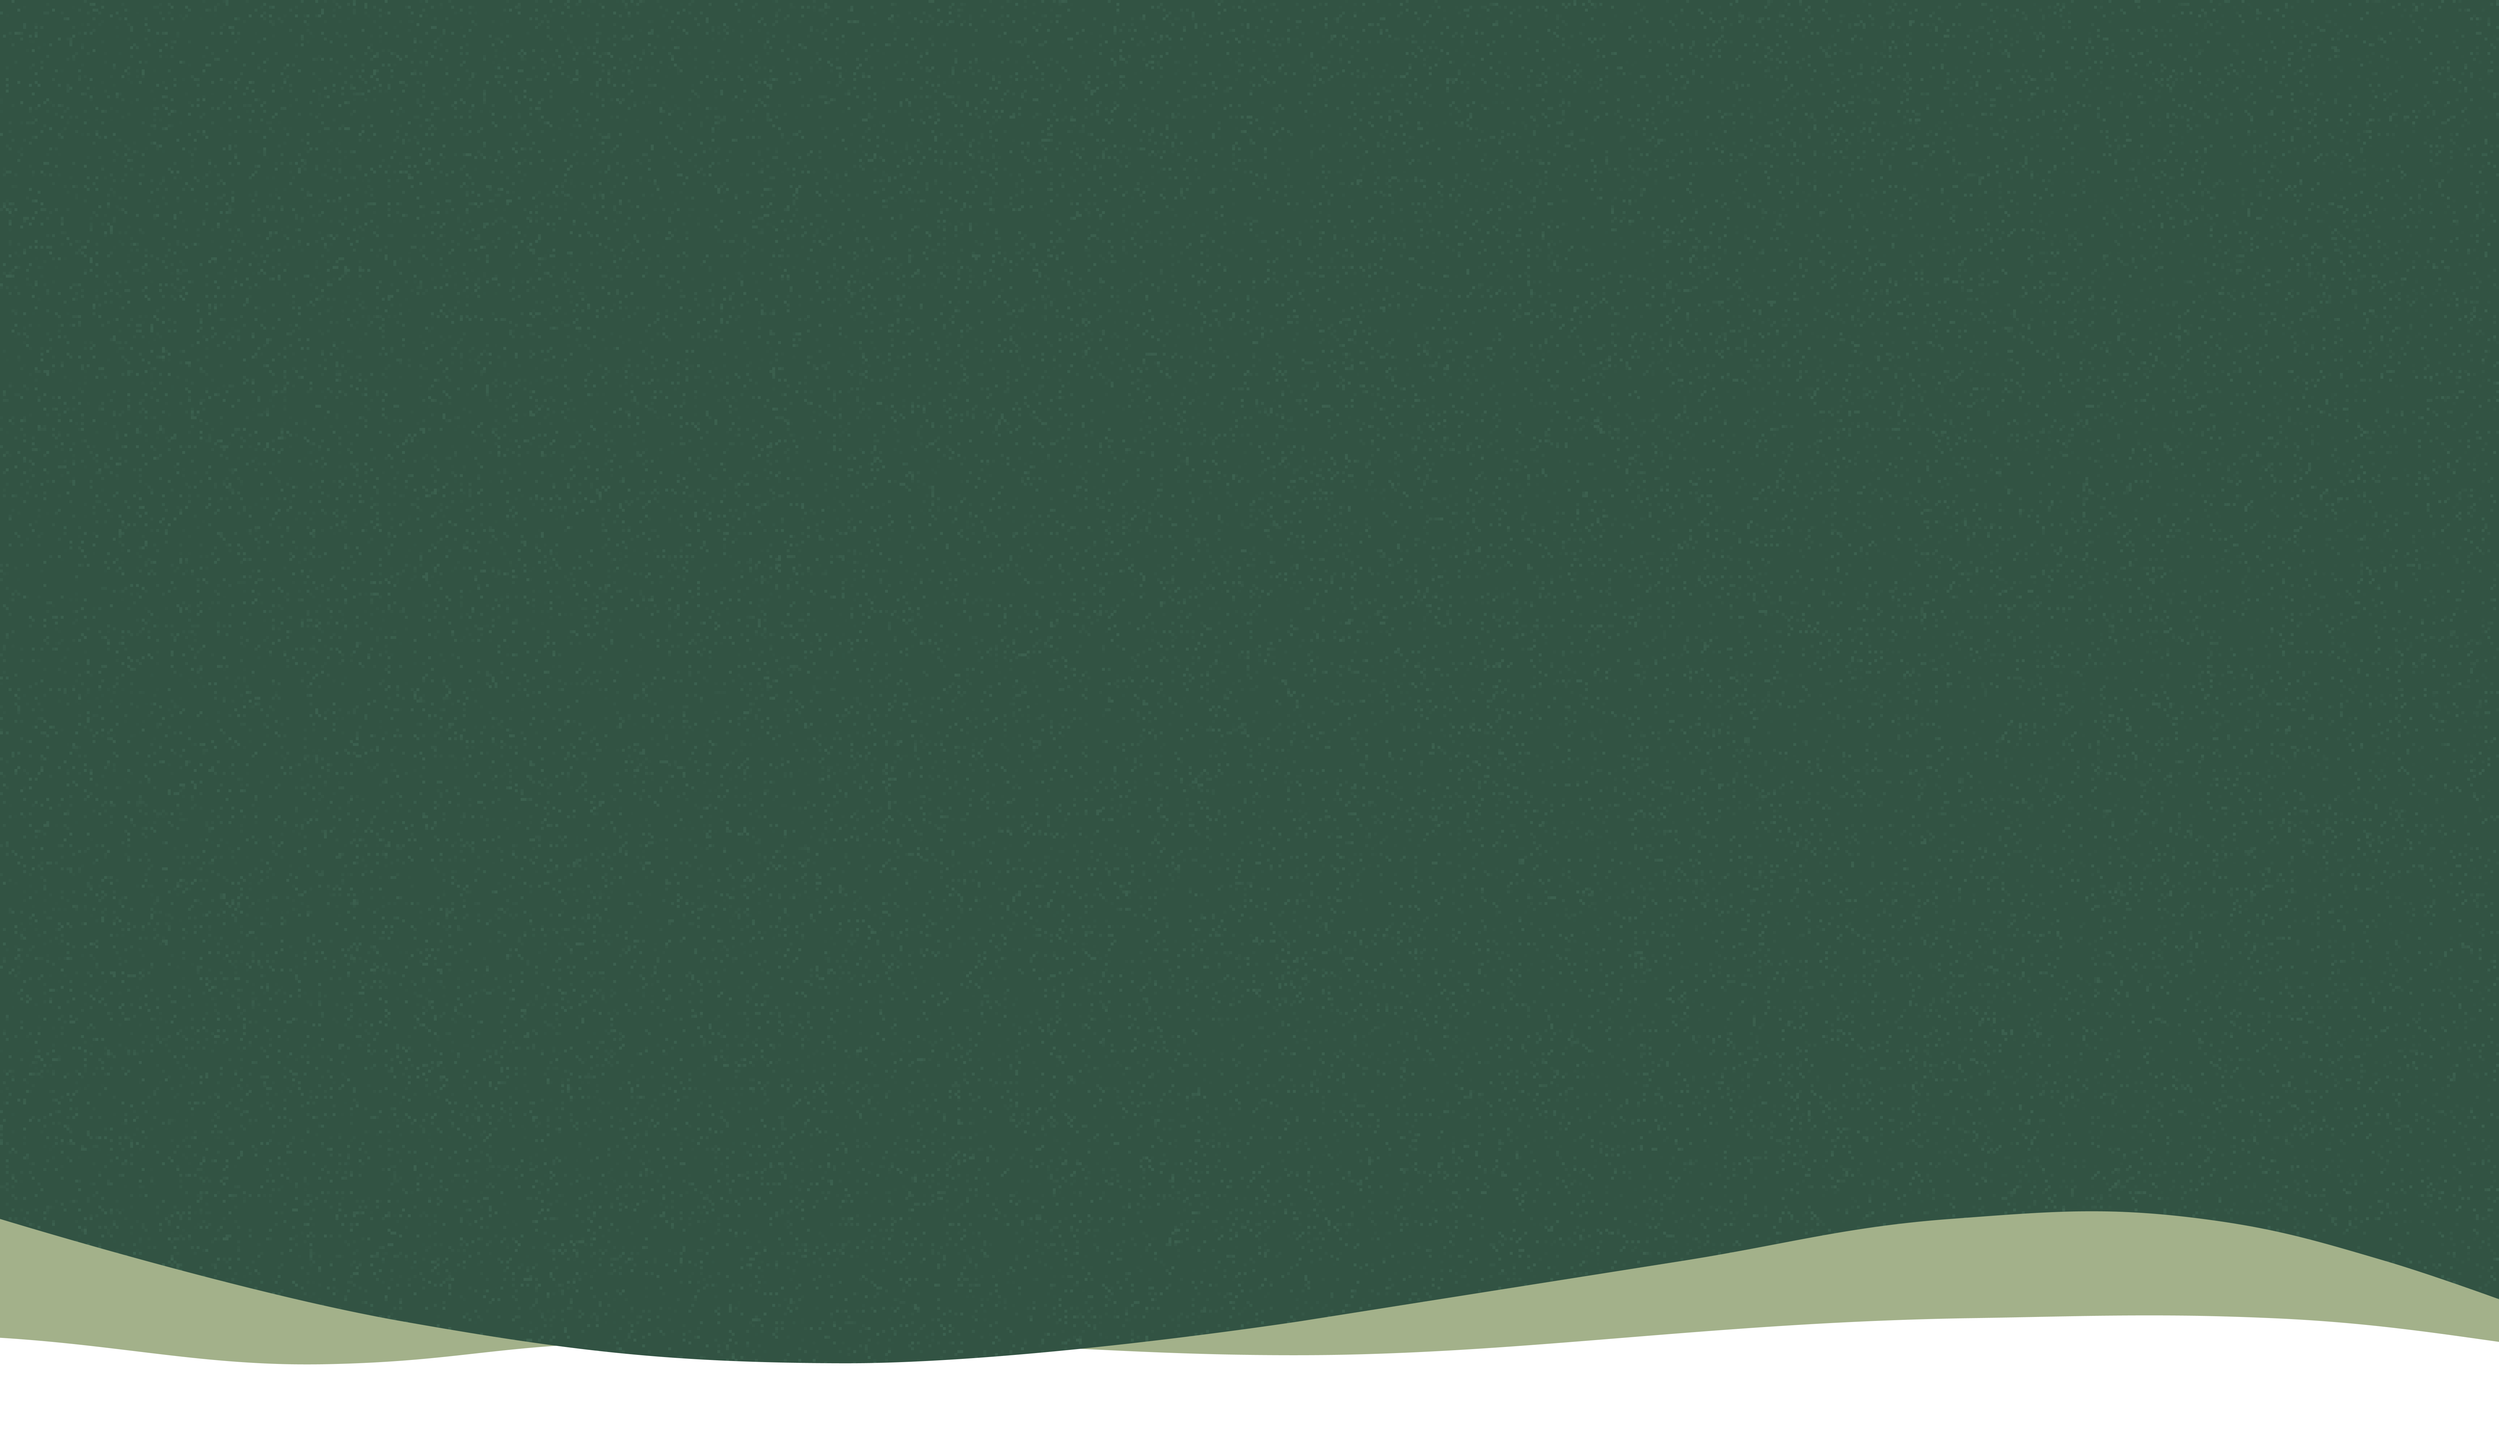
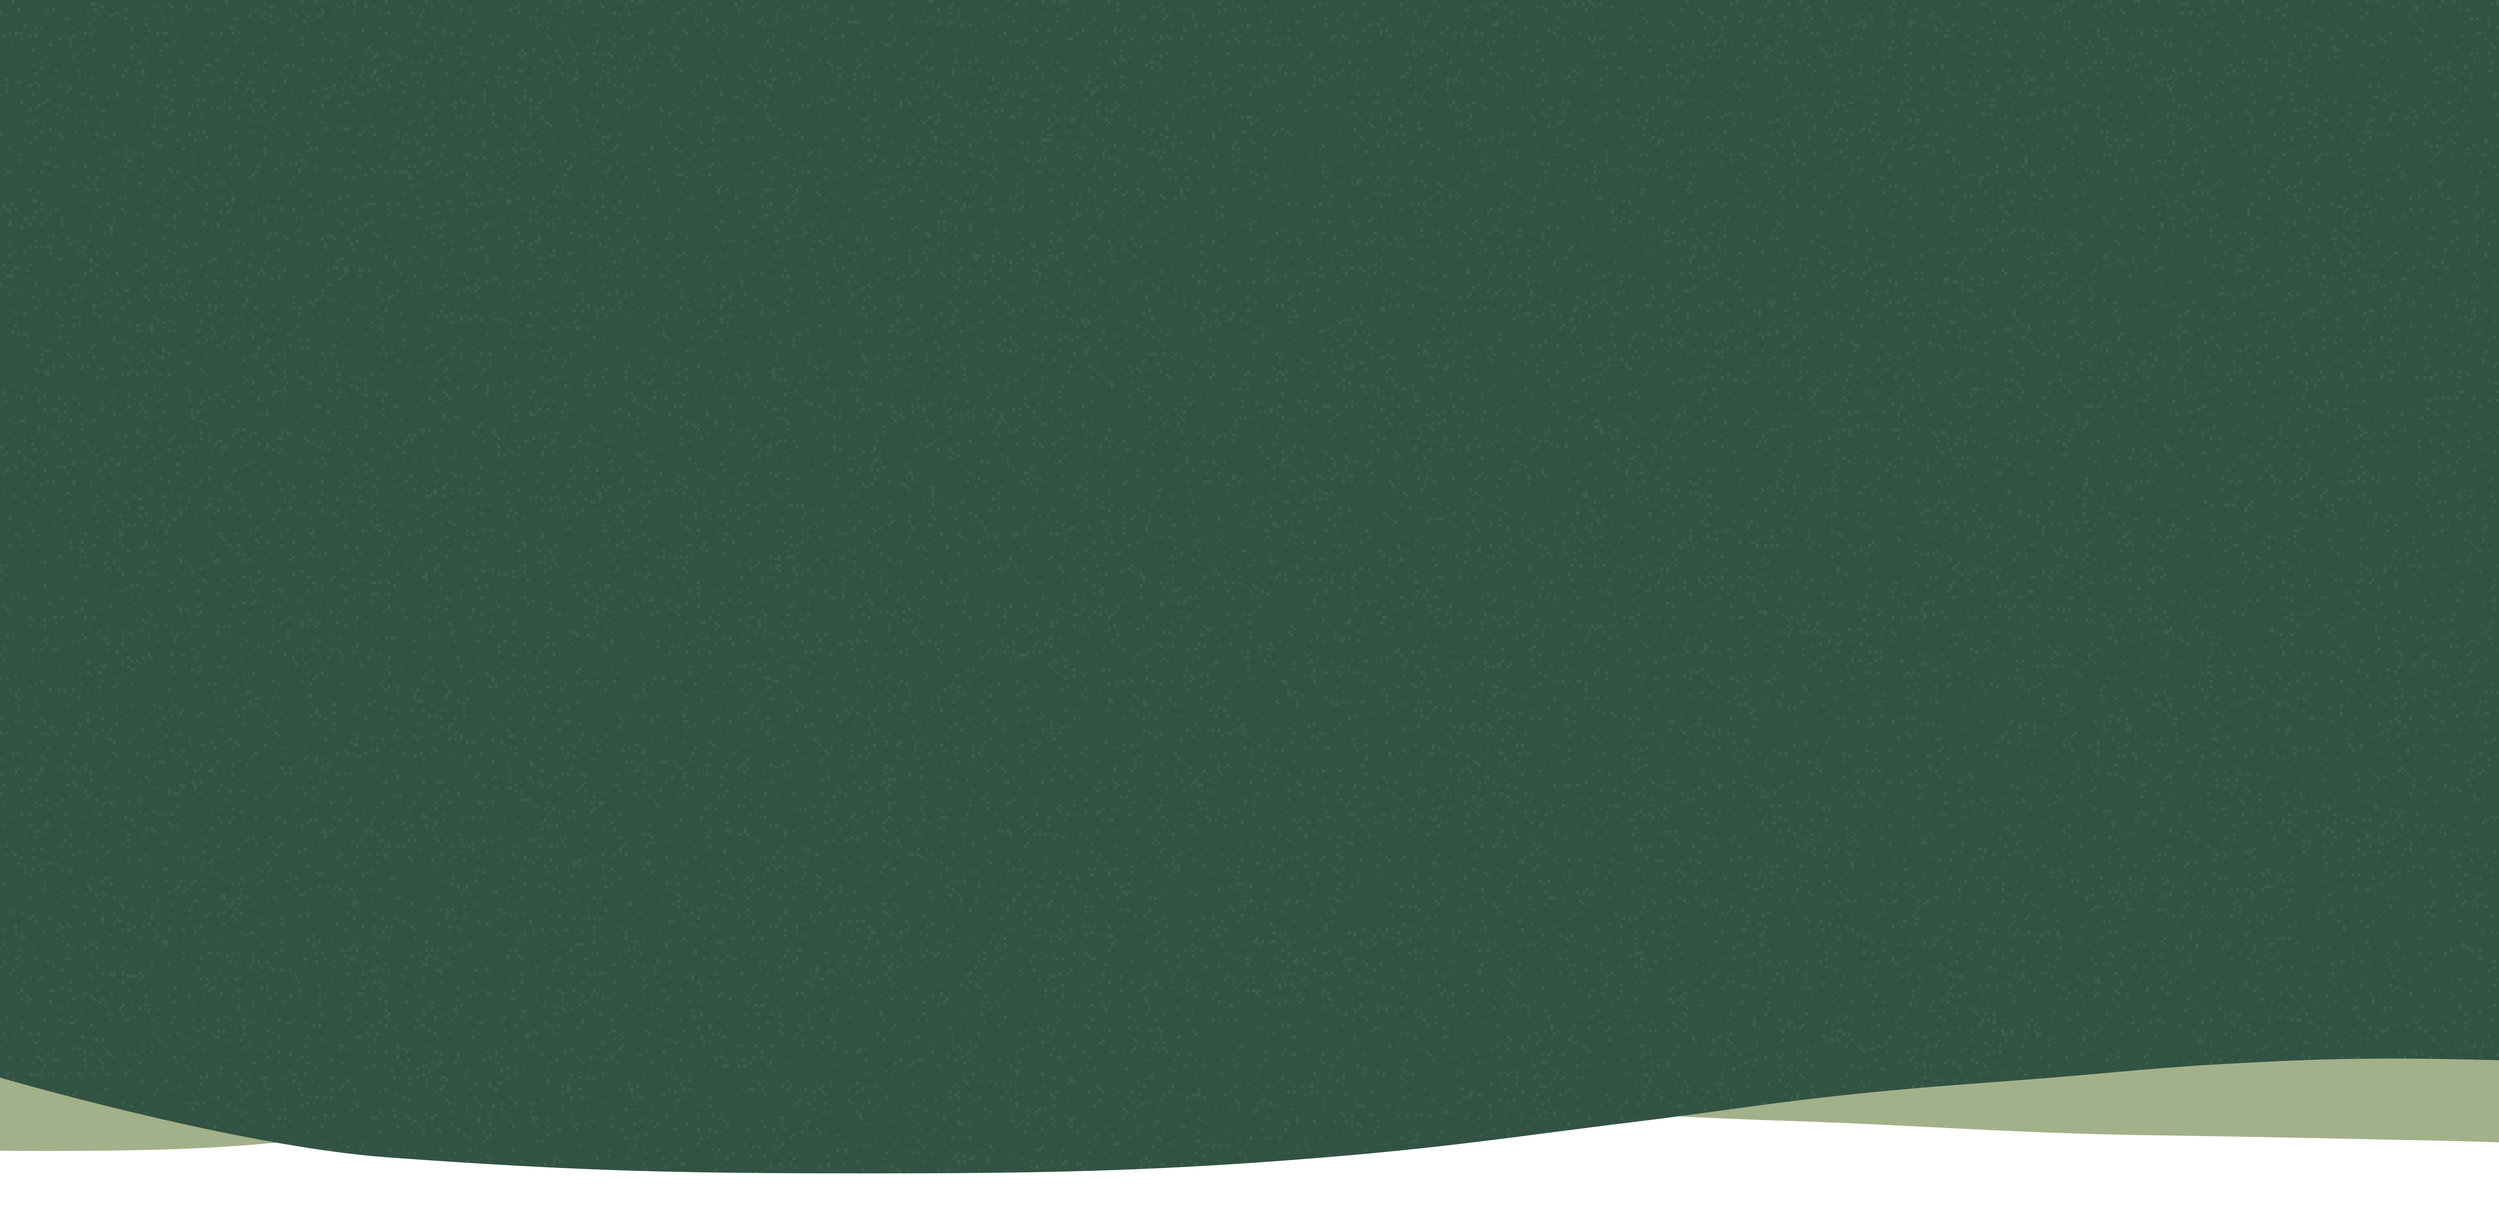
commit 7

Changed region(s): [[0.0, 0.8067, 1.0, 0.9928]]

diff --git a/my-app/src/Counter/Counter.css b/my-app/src/Counter/Counter.css
@@ -1,3 +1,5 @@
+@import url('https://fonts.googleapis.com/css2?family=Poppins:wght@400;500;600&display=swap');
+
 * {
   margin: 0;
   padding: 0;
@@ -7,7 +9,7 @@
 body {
   width: 100vw;
 }
-.counter-first {
+.counter-main {
   width: 100vw;
   height: 50vw;
   margin-left: auto;
@@ -15,85 +17,43 @@ body {
   padding-left: 100px;
   padding-right: 15px;
   display: flex;
-  justify-content: center;
-  align-items: center;
-}
-span {
-  color: #397a4a;
-  box-sizing: border-box;
-  font-size: larger;
-}
-.Info-container {
-  width: 50vw;
-  font-family: "Poppins", sans-serif;
-  font-size: 3.5vw;
-  font-weight: 400;
-  color: black;
-  padding: 2em 0 0 5rem;
-  position: block;
-}
-.Count-container {
-  width: 40vw;
-  margin: 5vw 0 0 3vw;
-  display: flex;
-  flex-direction: column;
-  justify-content: center;
-  position: relative;
-  font-size: 2vw;
-  font-weight: 400;
-  line-height: 1.5; /* Adjust this value for the desired line spacing */
-  border-spacing: 10px;
-}
-.Count-container hr {
-  border: 1px solid black;
-  width: 90%;
-  margin: 20px 0;
-}
-
-.Counter {
-  color: #397a4a;
-  font-size: larger;
-}
-
-.second-heading {
-  font-size: 3rem;
-  line-height: 3rem;
-}
-.counter-second {
-  width: 100vw;
-  height: auto;
-  display: flex;
   justify-content: space-evenly;
   align-items: center;
-  margin-top: 17vw;
 }
-.counter-second-para {
-  width: 35vw;
+.info-container {
+  width: 40vw;
+  font-weight: 500;
+  color: black;
+  margin-left: 5vw;
+}
+.info-container h2 {
+  font-size: 5vw;
+  font-weight: 400;
+}
+.info-container span {
+  color: #588157;
+  font-size: 4.8vw;
+  font-weight: 500;
+}
+.count-container {
+  width: 40vw;
   display: flex;
   flex-direction: column;
+  justify-content: center;
+  line-height: 3.5vw;
+  margin-top: 1vw;
 }
-.counter-second-para h2 {
-  font-family: 'Poppins', sans-serif;
+.count-container hr {
+  border: 1px solid black;
+  margin: 1.5vw 0;
+  width: 90%;
+}
+.count-container h2 {
   font-size: 4vw;
+  color: #606060;
+  font-weight: 500;
 }
-.counter-second-para p {
-  font-size: 1.5vw;
-  font-family: 'Poppins', sans-serif;
-}
-.para button {
-  height: 56px;
-  min-width: 160px;
-  border-width: 1px;
-  padding: 15px 36px;
-  font-size: 20px;
-  line-height: 26px;
-  border-radius: 7.25rem;
-  background-color: #397a4a;
-  color: white;
-}
-.collage img {
-  width: 35vw;
-}
-.para button:hover {
-  cursor: pointer;
+.count-container p {
+  font-size: 2vw;
+  color: #588157;
 }

diff --git a/my-app/src/Counter/Counter.jsx b/my-app/src/Counter/Counter.jsx
@@ -1,60 +1,32 @@
 import React from "react";
 import "./Counter.css";
-import collage from "../images/Collage.png";
 
 export default function Counter() {
   return (
-    <div className="main">
-      <div className="counter-first">
-        <div className="Info-container">
-          <h2>The world's largest therapy service.</h2>
-          <span>100% online!</span>
-        </div>
+    <div className="counter-main">
 
-        <div className="Count-container">
-          <div>
-            <div>350,467</div>
-            <div>Message, chat,phone,video sessions</div>
-          </div>
-          <hr />
-          <div>
-            <div>298,111</div>
-            <div>Credentialled therapists ready to help</div>
-          </div>
-          <hr />
-          <div>
-            <div>1205</div>
-            <div>People got help!</div>
-          </div>
-        </div>
-
-        <hr id="seperate" />
+      <div className="info-container">
+        <h2>The World's Largest therapy service.</h2>
+        <span>100% online!</span>
       </div>
 
-      <div className="counter-second">
-        <div className="counter-second-para">
-          <h2>
-            Professional and credentialled therapists who you can {" "}
-            <span>trust.</span>
-          </h2>
-          <br />
-          <p>
-            Tap into the world's largest network of credentialled and
-            experienced therapists who can help you with a range of issues
-            including depression, anxiety, relationships, trauma, grief, and
-            more. With our therapists, you get the same professionalism and
-            quality you would expect from an in-office therapist, but with the
-            ability to communicate when and how you want.
-          </p>
-          <br />
-          <button>Get Matched!</button>
+      <div className="count-container">
+        <div>
+          <h2>350,467</h2>
+          <p>Message, chat, phone, video sessions</p>
         </div>
-
-        <div className="collage">
-          <img src={collage} alt="" />
-          <br />
+        <hr />
+        <div>
+          <h2>298,111</h2>
+          <p>Credentialled therapists ready to help</p>
+        </div>
+        <hr />
+        <div>
+          <h2>1205</h2>
+          <p>People got help!</p>
         </div>
       </div>
+
     </div>
   );
 }

diff --git a/my-app/src/Therapists/Therapists.jsx b/my-app/src/Therapists/Therapists.jsx
@@ -1,0 +1,28 @@
+import React from "react";
+import "./Therapists.css";
+import th_img from "../images/therapy-img.png";
+
+export default function Therapists() {
+  return (
+    <>
+      <div className="therapists-main">
+        <img className="therapists-img" src={th_img} alt="" />
+
+        <div className="therapists-info">
+          <h2>
+            Professional and Credentialled therapists who you can{" "}
+            <span>trust.</span>
+          </h2>
+          <p>
+            Tap into the world's largest network of credentialled and
+            experienced therapists who can help you with a range of issues
+            including depression, anxiety, relationships, trauma, grief, and
+            more. With our therapists, you get the same professionalism and
+            quality you would expect from an in-office therapist, but with the
+            ability to communicate when and how you want.
+          </p>
+        </div>
+      </div>
+    </>
+  );
+}

diff --git a/my-app/src/Therapists/Therapists.css b/my-app/src/Therapists/Therapists.css
@@ -1,0 +1,37 @@
+.therapists-main {
+    background-image: url("../images/therapists-bg.png");
+    background-size: cover;
+    background-repeat: no-repeat;
+    width: 100vw;
+    height: 65vw;
+    display: flex;
+    justify-content: center;
+    align-items: center;
+    gap: 6vw;
+    padding: 1vw 0 0 0;
+}
+
+.therapists-img {
+    height: 53vw;
+    width: auto;
+    margin-left: 2vw;
+}
+
+.therapists-info {
+    width: 37vw;
+    font-family: 'Poppins', sans-serif;
+    margin: 3vw 0 0 2vw;
+}
+.therapists-info h2 {
+    font-size: 3.3vw;
+    font-weight: 400;
+    color: #C7925F;
+    line-height: 4.3vw;
+}
+.therapists-info p {
+    font-size: 1.2vw;
+    font-weight: 400;
+    color: #343434;
+    margin-top: 2.5vw;
+    width: 30vw;
+}

diff --git a/my-app/src/about/about.css b/my-app/src/about/about.css
@@ -1,0 +1,30 @@
+.about-main {
+    background-image: url("../images/about-bg.png");
+    background-size: cover;
+    background-repeat: no-repeat;
+    width: 100vw;
+    height: 59.5vw;
+    transform: translateY(-4vw);
+}
+
+.about-first {
+    padding-top: 9vw;
+    display: flex;
+    align-items: center;
+    width: 100vw;
+    height: 10vw;
+}
+.about-first h1 {
+    font-family: 'Poppins', sans-serif;
+    font-size: 3vw;
+    color: #FAEDCD;
+    font-weight: 400;
+}
+.about-first hr {
+    width: 23vw;
+    margin: 0 1.5vw;
+    border: 1px solid #FAEDCD;
+}
+hr:nth-of-type(2n) {
+    width: 50vw;
+}

diff --git a/my-app/src/App.js b/my-app/src/App.js
@@ -2,7 +2,7 @@ import './App.css';
 import Home from './Home/Home.jsx';
 import Nav from './Nav/Nav.jsx';
 import Counter from './Counter/Counter.jsx';
-import FeatureComp from './FeatureComp/featurecomp.jsx';
+
 function App() {
   return (
     <div className="App">
@@ -10,7 +10,6 @@ function App() {
       
       <Home />
       <Counter/>
-      <FeatureComp/>
     </div>
   );
 }

diff --git a/my-app/src/about/About.jsx b/my-app/src/about/About.jsx
@@ -1,0 +1,16 @@
+import React from 'react'
+import "./about.css"
+
+export default function About() {
+  return (
+    <div className='about-main'>
+      <div className='about-first'>
+        <hr />
+        <h1>how it works?</h1>
+        <hr />
+      </div>
+      <div className='about-second'></div>
+      <div className='about-third'></div>
+    </div>
+  )
+}
